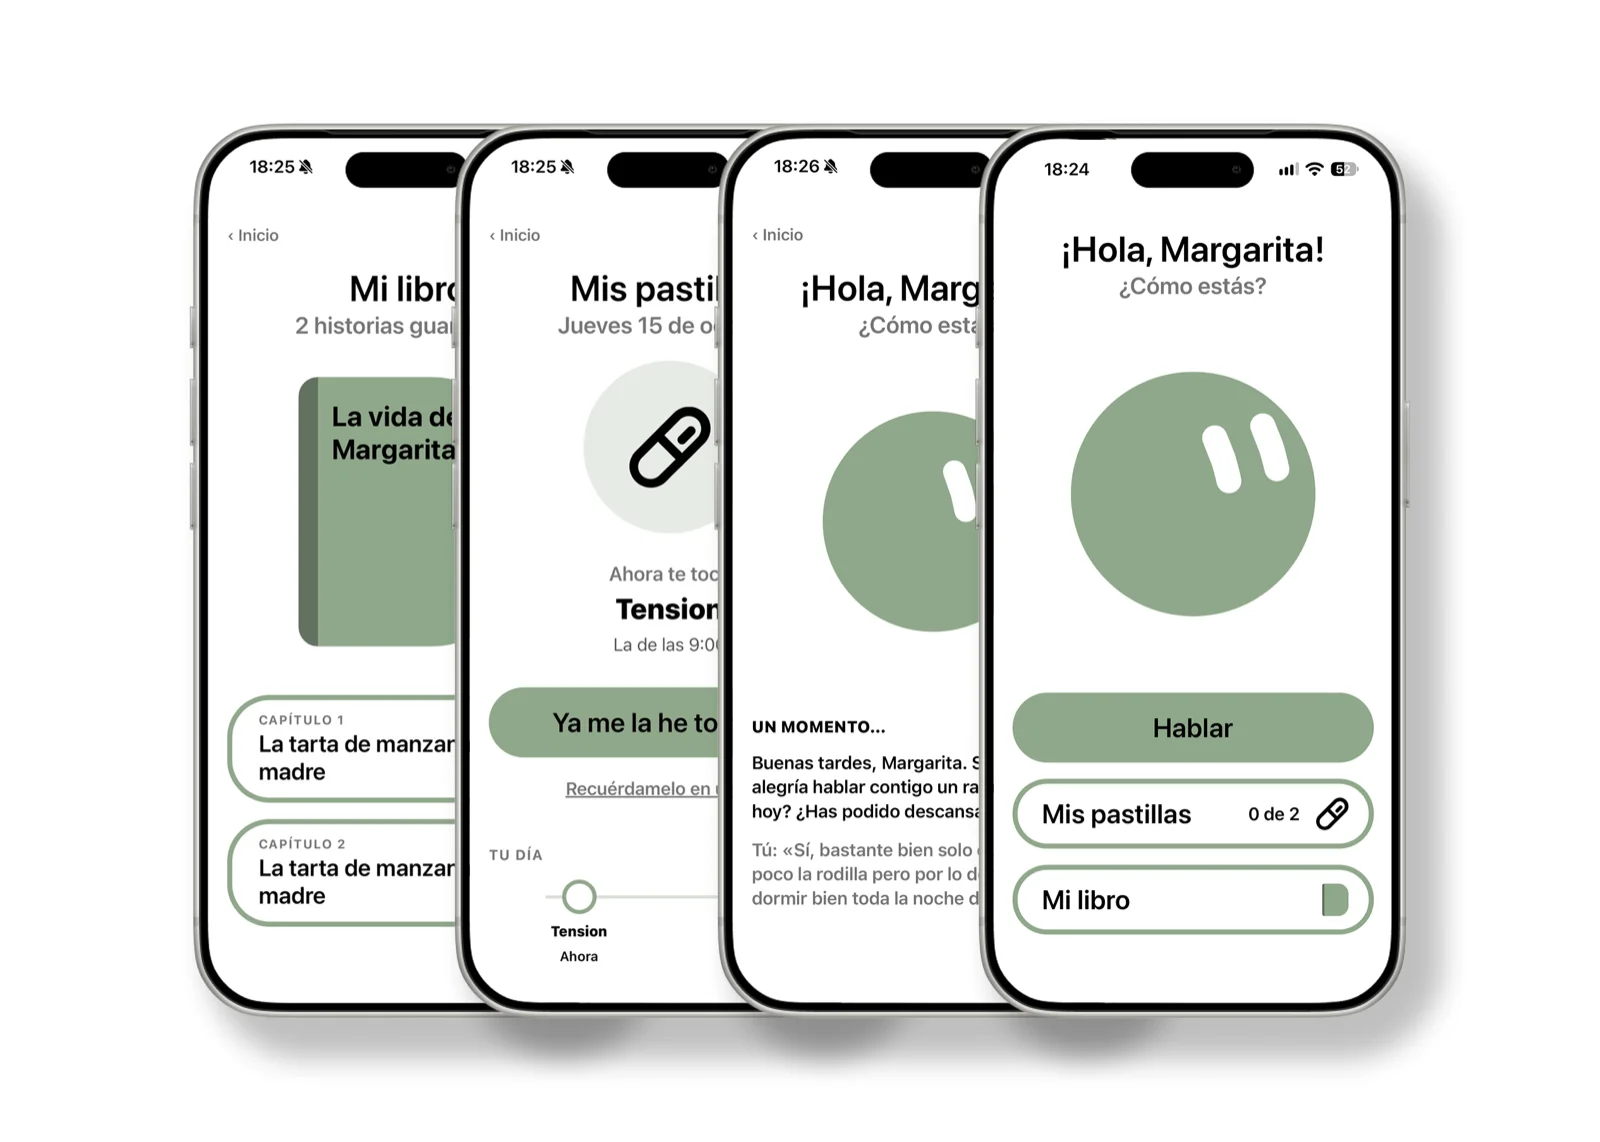
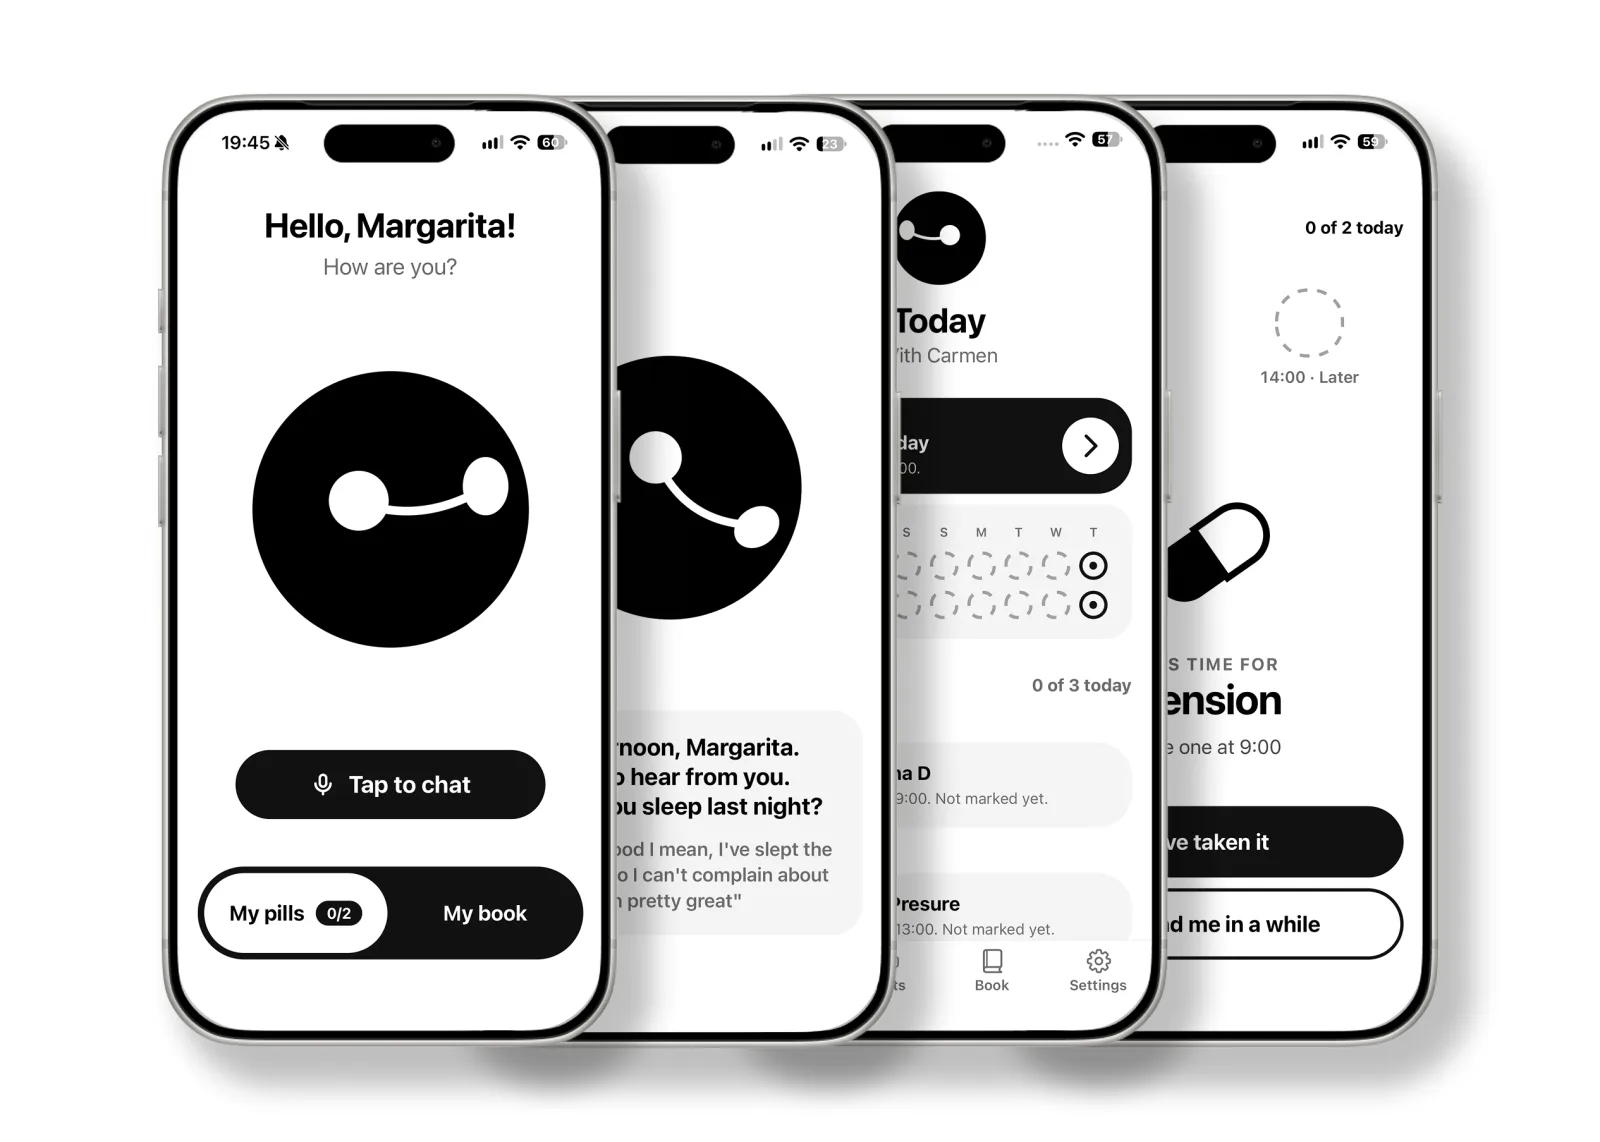
Design: new black-and-white Hilo mockups

diff --git a/components/design.tsx b/components/design.tsx
@@ -15,7 +15,7 @@ type Plate = { src: string; w: number; h: number; project: string; caption: stri
 
 const PLATES: Plate[] = [
   { src: '/design/mockups/01-hilo.webp', w: 1600, h: 1142, project: 'Hilo', caption: 'iPhone screens', year: '2026', tools: 'Figma' },
-  { src: '/design/mockups/02-hilo.webp', w: 1600, h: 1142, project: 'Hilo', caption: 'Pills, iPad', year: '2026', tools: 'Figma' },
+  { src: '/design/mockups/02-hilo.webp', w: 1600, h: 1142, project: 'Hilo', caption: 'Book and pills, iPad', year: '2026', tools: 'Figma' },
   { src: '/design/mockups/03-dross.webp', w: 1600, h: 1142, project: 'Dross', caption: 'Repositories', year: '2026', tools: 'SwiftUI' },
   { src: '/design/mockups/04-kiblo.webp', w: 1600, h: 1142, project: 'Kiblo', caption: 'Meal plan and trends', year: '2026', tools: 'React Native' },
   { src: '/design/mockups/05-ukraine-tracker.webp', w: 1600, h: 1142, project: 'Ukraine Tracker', caption: 'Losses chart', year: '2026', tools: 'Python, JS' },
